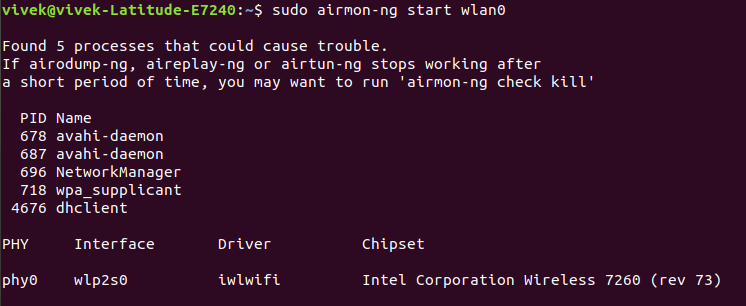
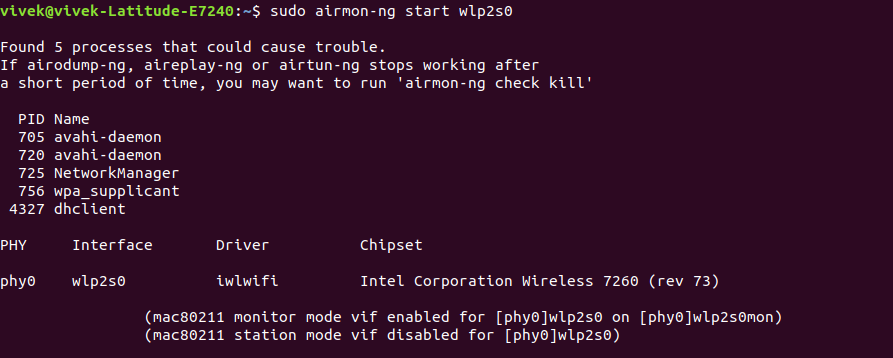
Steps Till AiroDump Monitor

diff --git a/JavaScanWEP/doc/ScanNetworkWEP.md b/JavaScanWEP/doc/ScanNetworkWEP.md
@@ -48,13 +48,31 @@ Processing triggers for man-db (2.8.3-2ubuntu0.1) ...
 ### Check trouble causing process 
 
 Command:  
-`sudo airmon-ng start wlan0`
+`sudo airmon-ng start wlp2s0`
 
 Output Screenshot:  
 ![Screenshot](images/trouble_causing_process.png)
 
 Output Text:  
 ```
+Found 5 processes that could cause trouble.
+If airodump-ng, aireplay-ng or airtun-ng stops working after
+a short period of time, you may want to run 'airmon-ng check kill'
+
+  PID Name
+  705 avahi-daemon
+  720 avahi-daemon
+  725 NetworkManager
+  756 wpa_supplicant
+ 4327 dhclient
+
+PHY	Interface	Driver		Chipset
+
+phy0	wlp2s0		iwlwifi		Intel Corporation Wireless 7260 (rev 73)
+
+		(mac80211 monitor mode vif enabled for [phy0]wlp2s0 on [phy0]wlp2s0mon)
+		(mac80211 station mode vif disabled for [phy0]wlp2s0)
+
 Found 5 processes that could cause trouble.
 If airodump-ng, aireplay-ng or airtun-ng stops working after
 a short period of time, you may want to run 'airmon-ng check kill'
@@ -72,7 +90,7 @@ phy0	wlp2s0		iwlwifi		Intel Corporation Wireless 7260 (rev 73)
 ```
 
 
-### Install ***net-tools***
+### Install ***net-tools*** for ***ifconfig***
 
 Command:  
 `sudo apt install net-tools`
@@ -103,6 +121,14 @@ Unpacking net-tools (1.60+git20161116.90da8a0-1ubuntu1) ...
 Setting up net-tools (1.60+git20161116.90da8a0-1ubuntu1) ...
 Processing triggers for man-db (2.8.3-2ubuntu0.1) ...
 ```
+
+
+### Stop the Interface
+
+Stop the interface for `[phy0]wlp2s0 on [phy0]wlp2s0mon`
+
+Command:  
+`sudo ifconfig wlp2s0mon down`
 
 
 ### Install ***Mac Changer***
@@ -143,5 +169,79 @@ Processing triggers for install-info (6.5.0.dfsg.1-2) ...
 Processing triggers for man-db (2.8.3-2ubuntu0.1) ...
 ```
 
+
+### Use Mac Changer for changing Mac-Address
+
+Command:  
+`sudo macchanger wlp2s0mon 00:11:22:33:44:55`
+
+Output Screenshot:  
+![Screenshot](images/MacChange_Command.png)
+
+
+Output Text:  
+```
+Current MAC:   ac:7b:a1:84:eb:d5 (Intel Corporate)
+Permanent MAC: ac:7b:a1:84:eb:d5 (Intel Corporate)
+```
+
+
+
+### Start the Interface
+
+Stop the interface for `[phy0]wlp2s0 on [phy0]wlp2s0mon`
+
+Command:  
+`sudo ifconfig wlp2s0mon down`
+
+
+
+### Start Monitoring through 'airodump-ng'
+
+Command:  
+`sudo airodump-ng wlp2s0mon`
+
+Output Screenshot:  
+![Screenshot](images/Moniter_airodump-ng.png)
+
+
+Output Text:  
+``` CH  8 ][ Elapsed: 30 s ][ 2019-10-28 19:26                                         
+                                                                                                                                               
+ BSSID              PWR  Beacons    #Data, #/s  CH  MB   ENC  CIPHER AUTH ESSID
+                                                                                                                                               
+ A0:E0:AF:A0:E9:AE   -1        0        0    0  11  -1                    <length:  0>                                                         
+ 60:E3:27:4D:A2:88  -45       36        0    0   7  54e. WPA2 CCMP   PSK  Wifi_Register                                                        
+ A0:E0:AF:D5:7B:42  -48       15        0    0  11  54e. WPA2 CCMP   MGT  eduroam                                                              
+ A0:E0:AF:D5:7B:41  -48       11      143    0  11  54e. WPA2 CCMP   MGT  wlanfh1x                                                             
+ A0:E0:AF:D5:7B:43  -49       15        0    0  11  54e. WPA2 CCMP   PSK  HSHD-SAP                                                              
+ A0:E0:AF:D5:7B:40  -49       18        0    0  11  54e. WPA2 CCMP   MGT  SRH                                                                   
+ E8:94:F6:F2:F1:E1  -60       52        2    0   6  54e. WEP  WEP         to_break_educational                                                  
+ A0:E0:AF:E8:BB:93  -66       16        0    0   1  54e. WPA2 CCMP   PSK  HSHD-SAP                                                              
+ A0:E0:AF:E8:BB:92  -67       17        0    0   1  54e. WPA2 CCMP   MGT  eduroam                                                               
+ A0:E0:AF:E8:BB:90  -67       19        0    0   1  54e. WPA2 CCMP   MGT  SRH                                                                   
+ A0:E0:AF:E8:BB:91  -67       18     3011    0   1  54e. WPA2 CCMP   MGT  wlanfh1x                                                             
+ A0:E0:AF:D6:58:D0  -73       15        0    0   6  54e. WPA2 CCMP   MGT  SRH                                                                   
+ A0:E0:AF:D6:58:D3  -73       15        0    0   6  54e. WPA2 CCMP   PSK  HSHD-SAP                                                              
+ A0:E0:AF:D6:58:D1  -74       15        0    0   6  54e. WPA2 CCMP   MGT  wlanfh1x                                                              
+ A0:E0:AF:B4:1C:A3  -74       10        0    0   1  54e. WPA2 CCMP   PSK  HSHD-SAP                                                             
+ A0:E0:AF:D6:58:D2  -75       13        0    0   6  54e. WPA2 CCMP   MGT  eduroam                                                               
+ AC:84:C6:58:46:F8  -75        2        0    0   9  54e. WPA2 CCMP   PSK  <length:  0>                                                          
+ A0:E0:AF:B4:1C:A0  -75        9        0    0   1  54e. WPA2 CCMP   MGT  SRH                                                                   
+ A0:E0:AF:B4:1C:A2  -75        4        0    0   1  54e. WPA2 CCMP   MGT  eduroam                                                               
+ A0:E0:AF:B4:1C:A1  -75       10        0    0   1  54e. WPA2 CCMP   MGT  wlanfh1x                                                              
+ A0:E0:AF:A0:E9:A3  -75       12        0    0   1  54e. WPA2 CCMP   PSK  HSHD-SAP                                                              
+ A0:E0:AF:A0:E9:A0  -75        9        0    0   1  54e. WPA2 CCMP   MGT  SRH                                                                   
+ A0:E0:AF:A0:EA:00  -76       11        0    0   6  54e. WPA2 CCMP   MGT  SRH                                                                   
+ A0:E0:AF:B2:E8:11  -76       15        0    0  11  54e. WPA2 CCMP   MGT  wlanfh1x                                                              
+ A0:E0:AF:B2:E8:13  -76       13        0    0  11  54e. WPA2 CCMP   PSK  HSHD-SAP                                                              
+ A0:E0:AF:A0:EA:01  -76       15        0    0   6  54e. WPA2 CCMP   MGT  wlanfh1x                                                              
+ A0:E0:AF:A0:EA:03  -76       14        0    0   6  54e. WPA2 CCMP   PSK  HSHD-SAP                                                              
+ A0:E0:AF:A0:EA:02  -76       14        0    0   6  54e. WPA2 CCMP   MGT  eduroam                                                               
+ A0:E0:AF:A0:E9:A2  -76        8        0    0   1  54e. WPA2 CCMP   MGT  eduroam                                                               
+ A0:E0:AF:A0:E9:A1  -76       11        0    0   1  54e. WPA2 CCMP   MGT  wlanfh1x                                                             
+ A0:E0:AF:B2:E8:10  -77       13        0    0  11  54e. WPA2 CCMP   MGT  SRH                                                                  
+ A0:E0:AF:B2:E8:12  -77       14        0    0  11  54e. WPA2 CCMP   MGT  eduroam 
+```
 
 
